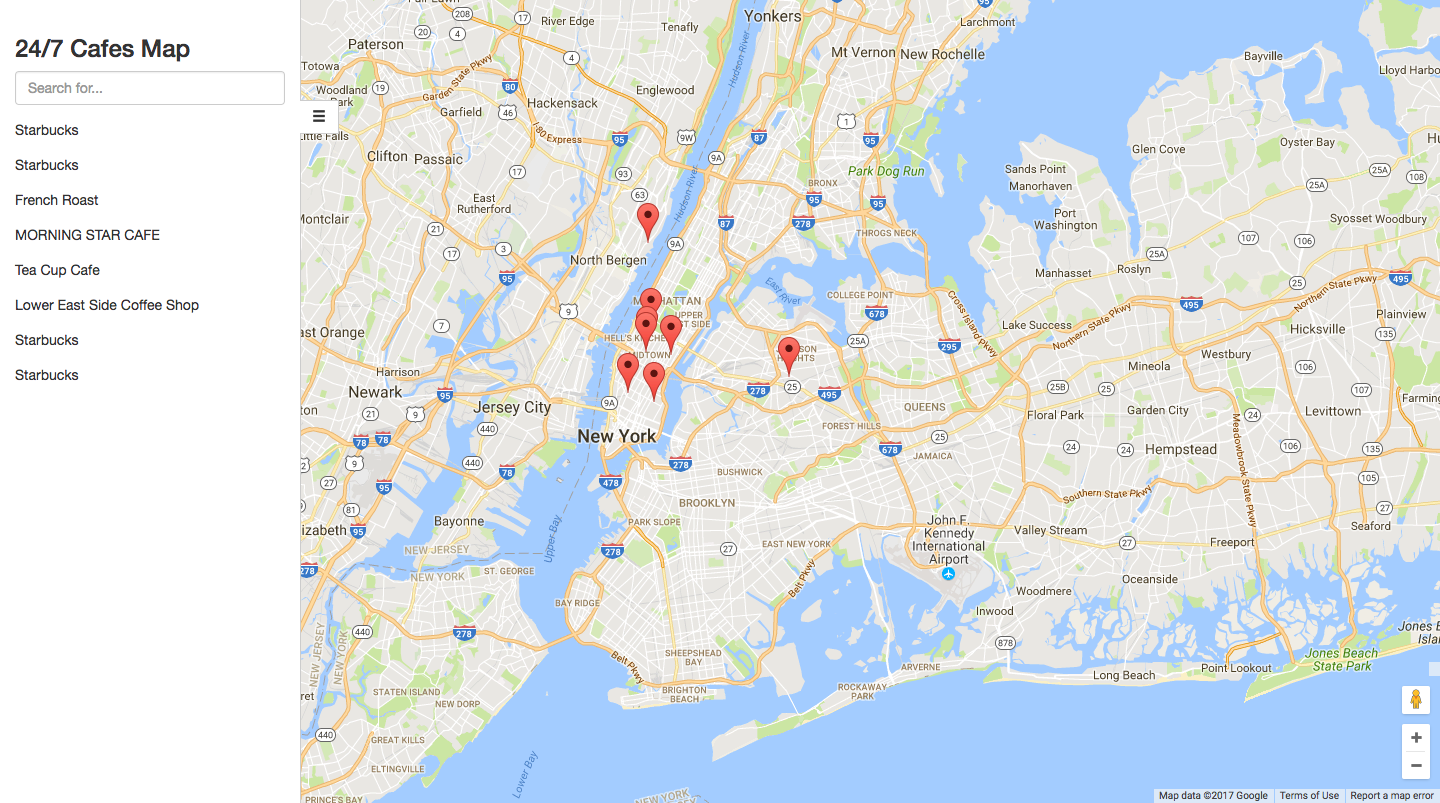
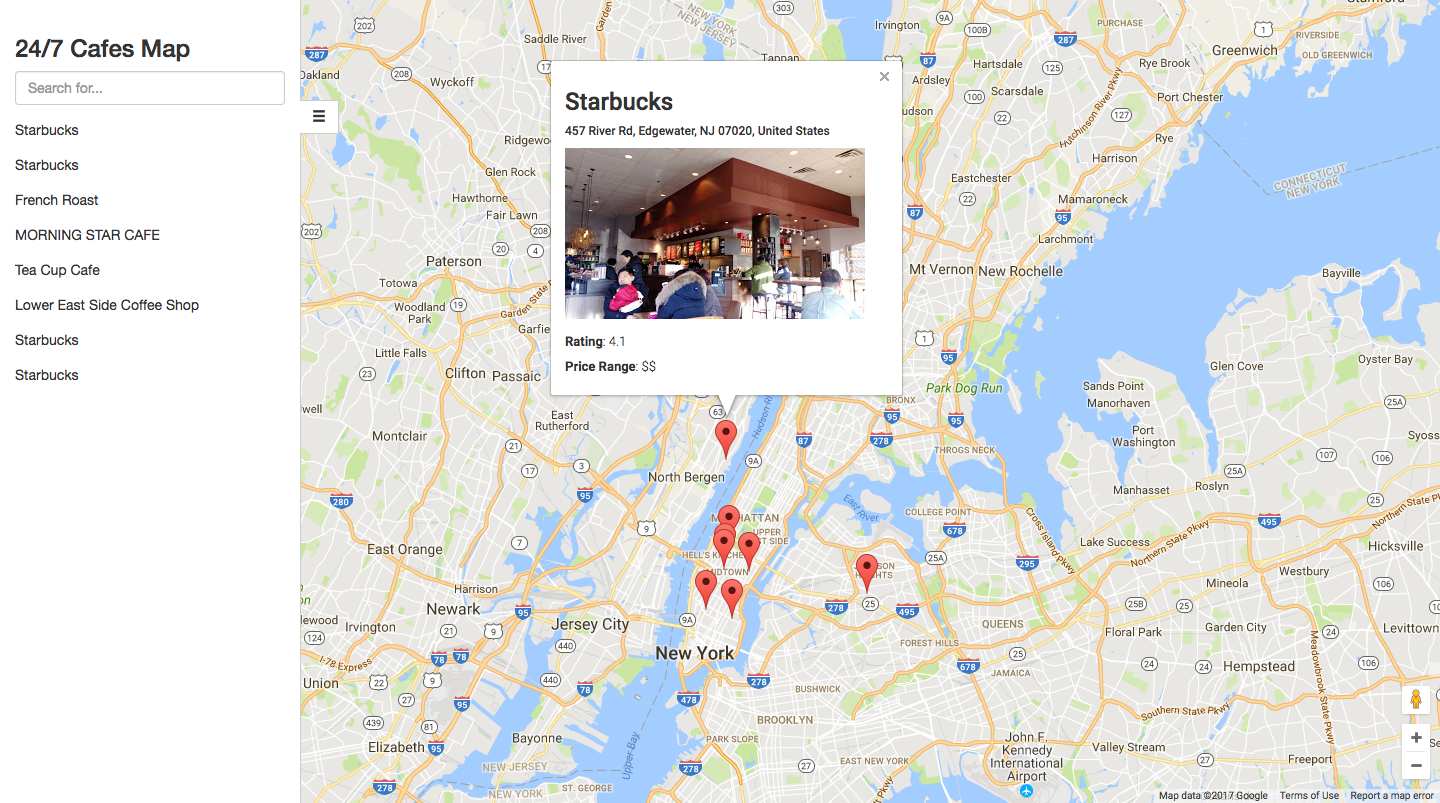
added readme and updated screenshot

diff --git a/README.md b/README.md
@@ -1,0 +1,46 @@
+# Udacity NanoDegree Neighborhood Map
+
+## Project Overview
+
+A map based system using knockoutJS, HandlebarsJS, Google Maps API and Google Places API to displays coffee shops that are open 24 hours in New York City as a start. Future plans include the ability to select any city in the world and get the corresponding places.
+
+## Inspiration
+
+As a person who likes to develop at night and enjoys coffee shops, it is a hastle to find coffee shops that are open 24/7. This tool makes it easier to find those places.
+
+## Project Screenshot
+
+![Neighborhood Map CoffeeShops 24/7 Screenshot](https://github.com/ziadalame/forntend-nanodegree-neighborhood-map/blob/master/images/screenshot.png?raw=true)
+
+## Getting started
+
+- To view project, go to: [Neighborhood Map](https://ziadalame.github.io/forntend-nanodegree-neighborhood-map/)
+- To deploy on your machine, follow the below steps:
+
+```
+$ git clone git@github.com:ziadalame/frontend-nanodegree-neighborhood-map.git
+$ cd frontend-nanodegree-neighborhood-map
+$ open index.html
+```
+
+## Project completion TODO
+
+- [x] Display Map on screen
+- [x] Get corresponding places from the (google maps places api)[https://developers.google.com/places/]
+- [x] Place pins on map and add animation to pins
+- [x] Overlay a collasible menu with list of coffee shops
+- [x] Add filtering option
+- [x] Add information for every coffee shop in an info window
+- [ ] Add the ability to change the city 
+
+## Authors
+
+* **Ziad Alame** - *Customization and final points* - [ZiadAlame](https://github.com/ziadalame)
+
+## Acknowledgements
+
+* Thank you Udacity for the project inspiration.
+
+## License
+
+This project is licensed under the MIT License
